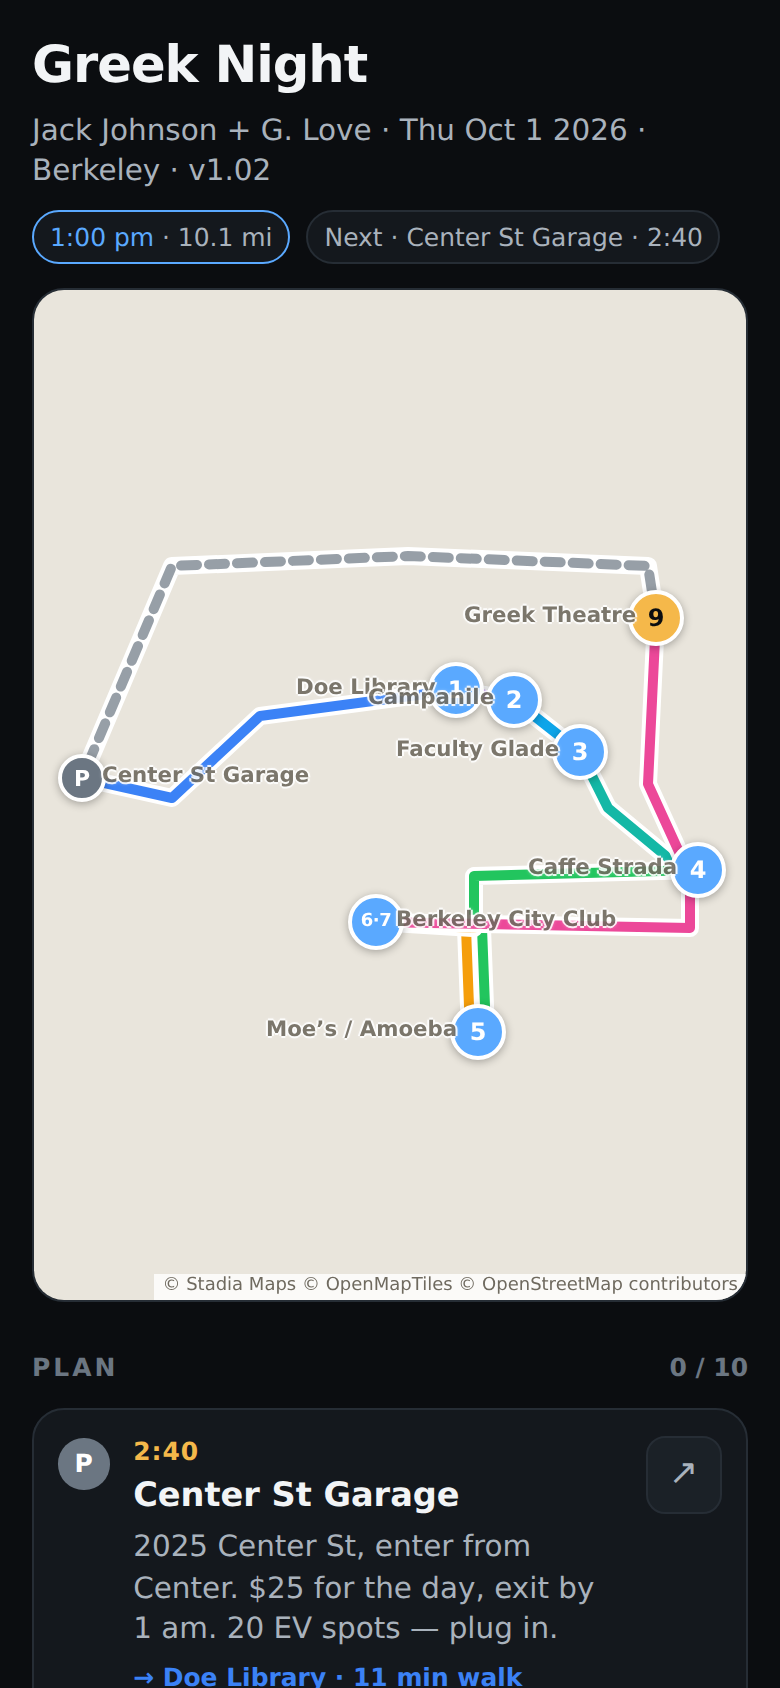
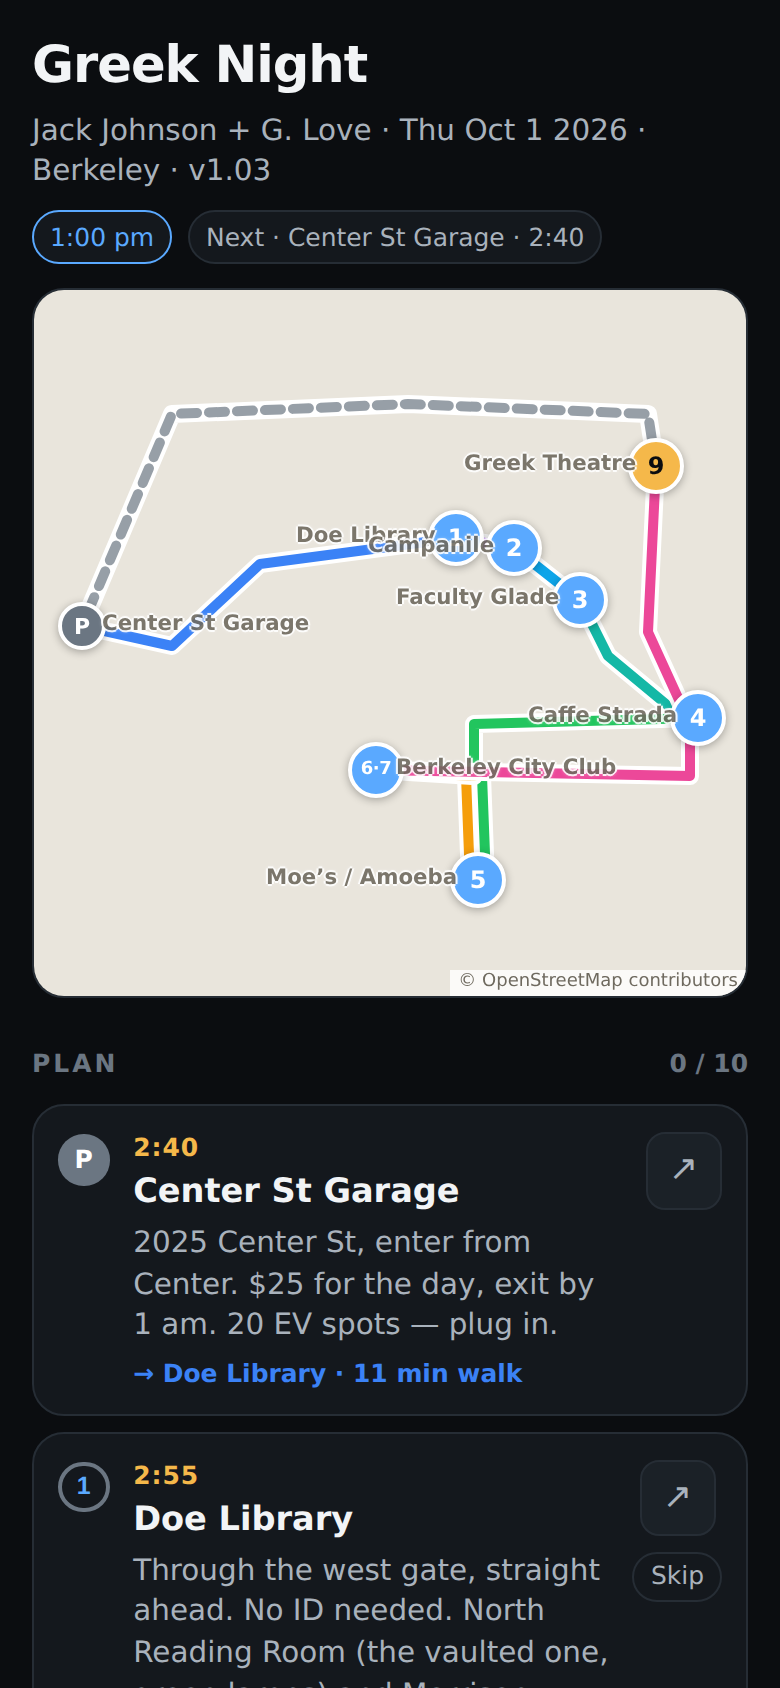
greek-night: OSM washed, zoom cap, shorter map v1.03
Drop Stadia and the tileerror fallback; base layer is plain OSM with a
grayscale/brightness/contrast filter on the tile pane. Zoom capped at
14–16. Map card is 42vh at phone widths and refits bounds on resize.

Claude-Session: https://claude.ai/code/session_01SYEqCQ4izqiJdBAjLeUwFf

diff --git a/greek-night.html b/greek-night.html
@@ -65,10 +65,10 @@
   button{flex:1;background:var(--card);border:1px solid var(--line);color:var(--ink2);border-radius:var(--r2);padding:var(--s3);font:inherit;font-size:var(--t3)}
   footer{margin-top:var(--s6);text-align:center;color:var(--ink3);font-size:var(--t4)}
   .mapcard{position:relative;width:100%;aspect-ratio:4/3;max-height:60vh;background:var(--card);border:1px solid var(--line);border-radius:var(--r);overflow:hidden}
-  @media (max-width:767px){.mapcard{aspect-ratio:auto;max-height:none;height:60vh;height:60dvh}}
+  @media (max-width:767px){.mapcard{aspect-ratio:auto;max-height:none;height:42vh;height:42dvh}}
   #gnmap{position:absolute;inset:0;background:#e9e5dc;font:inherit}
   .leaflet-container{font-family:inherit}
-  .fallback .leaflet-tile-pane{filter:grayscale(1) brightness(1.12) contrast(.85)}   /* the OSM fallback in light grey; the route, pins and dot sit in sibling panes, unfiltered */
+  .leaflet-tile-pane{filter:grayscale(1) brightness(1.18) contrast(.72)}   /* a washed grey basemap; the route, pins and dot sit in sibling panes, unfiltered */
   .leaflet-control-attribution{font-size:9px;line-height:1.2;padding:1px 4px;background:rgba(255,255,255,.7);color:#6f6a5f}
   .leaflet-control-attribution a{color:#6f6a5f}
   /* pins: a numbered circle; a ring pulses on the current step; done steps fade */
@@ -101,7 +101,7 @@
 <body>
 <header>
   <h1>Greek Night</h1>
-  <p>Jack Johnson + G. Love · Thu Oct 1 2026 · Berkeley · v1.02</p>
+  <p>Jack Johnson + G. Love · Thu Oct 1 2026 · Berkeley · v1.03</p>
   <div class="meta">
     <span class="chip now" id="clock"><span id="clocktime">—</span><span class="sub" id="clocksub" hidden></span></span>
     <span class="chip" id="next"></span>
@@ -126,7 +126,7 @@
   <button id="reset">Reset checks</button>
 </div>
 
-<footer>Greek Night · v1.02 · a3406aa</footer>
+<footer>Greek Night · v1.03 · 614c886</footer>
 
 <script>
 (function(){
@@ -413,15 +413,9 @@
      pin list; Leaflet does the projection, the gestures, the labels and the popup. ---------- */
   var cardEl = document.getElementById('mapcard'), linkedRows = [], markers = [];
   var NOW = '#5aa9ff', ACCENT = '#f5b84a';   /* --now and --accent, for SVG paths that can't read CSS variables */
-  var map = L.map('gnmap', {zoomControl:false, maxZoom:19, attributionControl:true, zoomSnap:0});   /* zoomSnap 0: the fit lands on the route exactly, not the next whole level out */
+  var map = L.map('gnmap', {zoomControl:false, minZoom:14, maxZoom:16, attributionControl:true, zoomSnap:0});   /* zoomSnap 0: the fit lands on the route exactly, not the next whole level out */
   map.attributionControl.setPrefix('');
-  /* Stadia Alidade Smooth; if its first tile fails (no key for this domain, or it's down) the map swaps to OpenStreetMap in grey rather than going blank */
-  var tiles = L.tileLayer('https://tiles.stadiamaps.com/tiles/alidade_smooth/{z}/{x}/{y}{r}.png', {maxZoom:19, attribution:'© Stadia Maps © OpenMapTiles © OpenStreetMap contributors'}).addTo(map);
-  tiles.once('tileerror', function(){
-    map.removeLayer(tiles);
-    L.DomUtil.addClass(map.getContainer(), 'fallback');
-    L.tileLayer('https://tile.openstreetmap.org/{z}/{x}/{y}.png', {maxZoom:19, attribution:'© OpenStreetMap contributors'}).addTo(map);
-  });
+  L.tileLayer('https://tile.openstreetmap.org/{z}/{x}/{y}.png', {minZoom:14, maxZoom:16, attribution:'© OpenStreetMap contributors'}).addTo(map);
   var routeLayer = L.layerGroup().addTo(map), meLayer = L.layerGroup().addTo(map);
   var meDot = null, meRing = null;
   var hasOffset = !!(window.L && L.PolylineOffset);   /* leaflet-polylineoffset: a shared street draws its two legs ±4px apart */
@@ -516,6 +510,9 @@
     return [a[0] + (b[0] - a[0]) * t, a[1] + (b[1] - a[1]) * t];
   }
 
+  function fitRoute(){ map.fitBounds(L.latLngBounds(PLACES.map(function(s){ return [s.lat, s.lng]; }).concat(BACK)), {padding:[24, 24]}); }
+  map.on('resize', fitRoute);   /* the card changed size: the route fills it again */
+
   function buildMap(){
     routeData();
     routeLayer.clearLayers(); markers = [];
@@ -530,7 +527,7 @@
       m.on('click', function(){ popOpen(i, m); });
       m.place = s; markers.push(m);
     });
-    map.fitBounds(L.latLngBounds(PLACES.map(function(s){ return [s.lat, s.lng]; }).concat(BACK)), {padding:[24, 24]});
+    fitRoute();
     paintMap(planStates().cur);
   }
 
